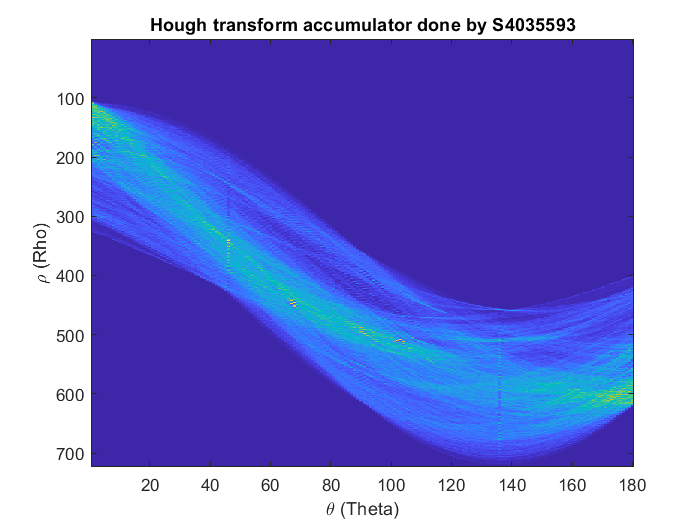
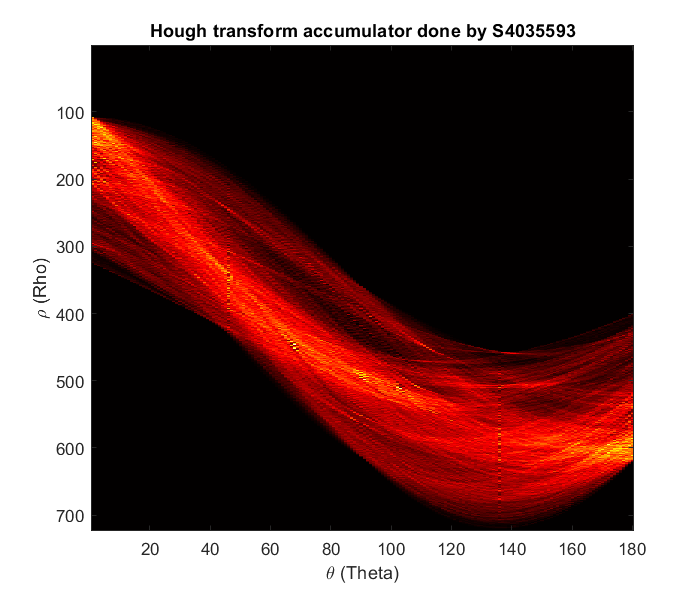
Adding Lab1 and 2 fixes

diff --git a/Assignment4/Lab1.m b/Assignment4/Lab1.m
@@ -4,8 +4,12 @@ ID = "S4035593";
 c = imread('cameraman.tif');
 %imshow(c);
 edges = edge(c, 'canny');
-hc = hough(edges);
+[hc, theta, rho] = hough(edges);
+hcTh = hc;
+hcTh(hcTh < 0.999 * max(hc(:))) = 0;
+
 figure(1)
+colormap('hot');
 imagesc(hc);
 title('Hough transform accumulator done by '+ID);
 xlabel('\theta (Theta)')
@@ -15,10 +19,17 @@ ylabel('\rho (Rho)');
 %imshow(hcTh);
 [H,T,R] = hough(edges);
 figure(3);
-colormap(gray(256));
 P  = houghpeaks(hc,5);
 imshow(H,[],'XData',T,'YData',R,'InitialMagnification','fit');
 title('five strongest local maxima points done by '+ID);
 xlabel('\theta'), ylabel('\rho');
 axis on, axis normal, hold on;
 plot(T(P(:,2)),R(P(:,1)),'s','color','yellow');
+
+figure()
+colormap('hot');
+imshow(c)
+% Get the strongest peak, i.e at position 1.
+P  = P(1,:);
+myhoughline(c, rho(P(:,1)), theta(P(:,2)))
+title('CAMERAMAN.tif STRONGEST LINE done by '+ID);
